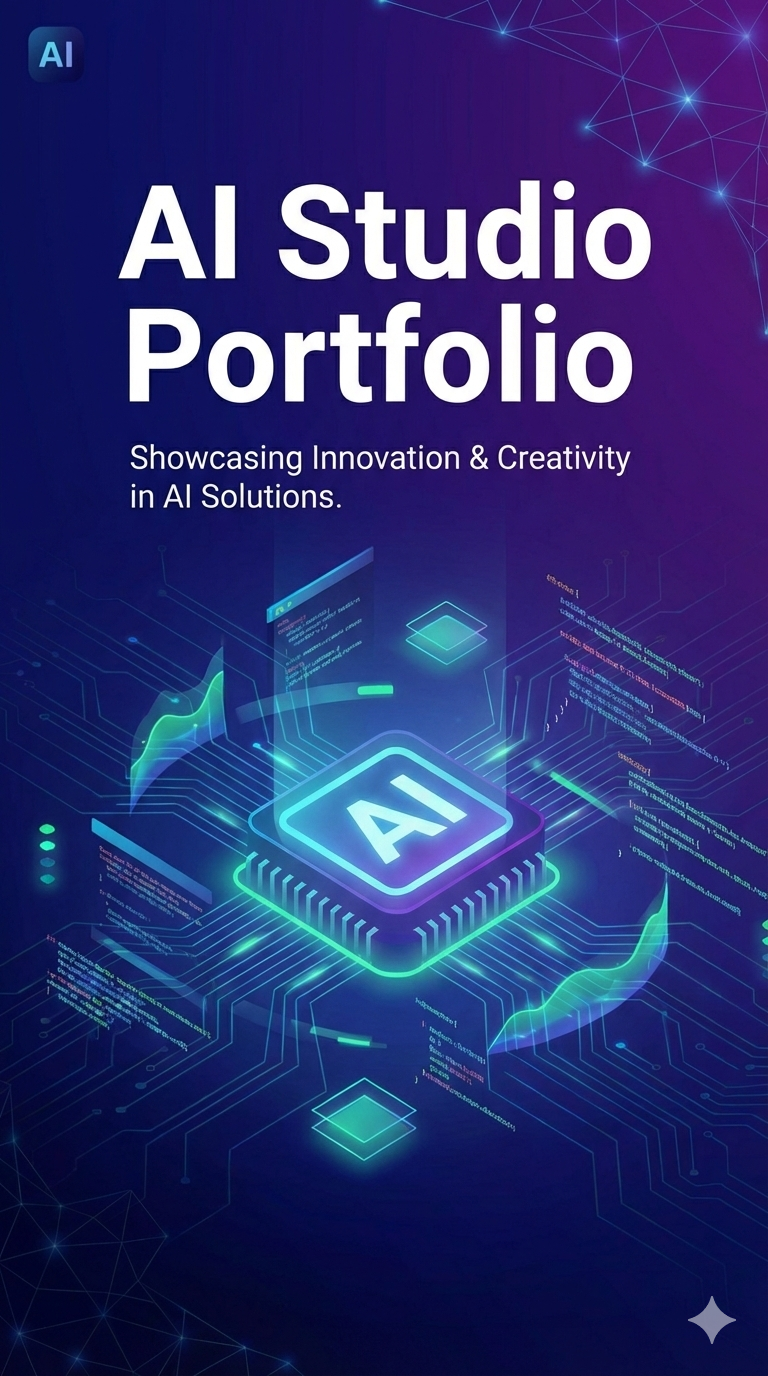
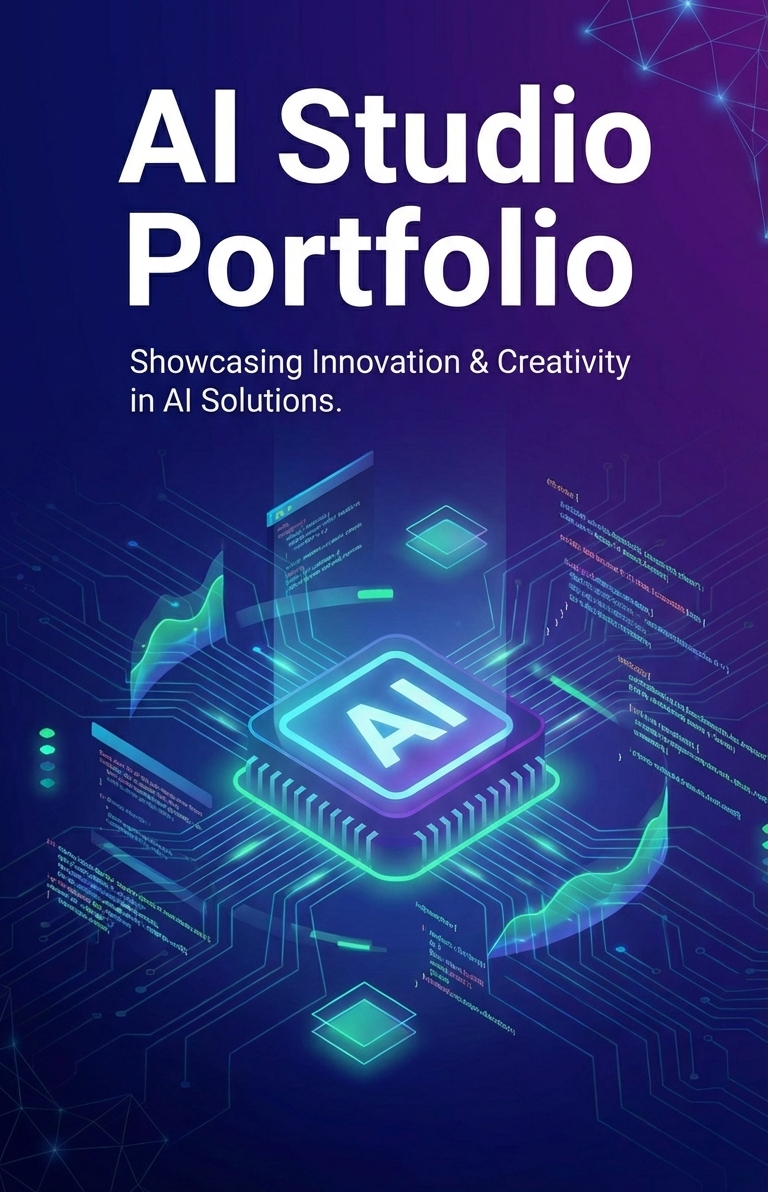
圖片改為webp

diff --git a/components/Works.tsx b/components/Works.tsx
@@ -2,7 +2,7 @@
 import React, { useEffect, useRef } from 'react';
 import { Link } from 'react-router-dom';
 // 使用剛設定好的 @ 別名
-import workImg1 from '../assets/images/work-01.png';
+import workImg1 from '../assets/images/work-01.webp';
 import workImg2 from '../assets/images/work-02.png';
 
 declare const window: any;
@@ -40,10 +40,11 @@ export const Works: React.FC = () => {
         <Link to="/work/personal-branding" className="work-card group cursor-pointer block">
           <div className="relative overflow-hidden aspect-[4/5] bg-neutral-900">
             <div className="absolute inset-0 bg-black/20 group-hover:bg-transparent transition-all z-10 duration-500"></div>
-            <img 
-              src={workImg1} // 這裡必須是大括號包住的變數名
-              alt="個人品牌形象官網" 
-              className="w-full h-full object-cover transition-transform duration-700 group-hover:scale-105 opacity-80 group-hover:opacity-100"
+            <img
+              src={workImg1}
+              alt="個人品牌形象官網"
+              // 將 object-cover 改為 object-contain，並確保 object-center
+              className="w-full h-full object-contain object-center transition-transform duration-700 group-hover:scale-105 opacity-80 group-hover:opacity-100"
             />
             <div className="absolute top-4 right-4 z-20 opacity-0 group-hover:opacity-100 transition-opacity duration-500">
                 <span className="w-8 h-8 rounded-full border border-white/30 flex items-center justify-center bg-black/30 backdrop-blur-sm">

diff --git a/vite.config.ts b/vite.config.ts
@@ -1,6 +1,7 @@
 import * as path from 'path';
 import { defineConfig, loadEnv } from 'vite';
 // 如果這行還是紅字，請確保你已經跑過上面的 npm install 指令
+// @ts-ignore
 import react from '@vitejs/plugin-react';
 
 export default defineConfig(({ mode }) => {

diff --git a/vite-env.d.ts b/vite-env.d.ts
@@ -1,2 +1,3 @@
-///<reference types="vite/client" />
+/// <reference types="vite/client" />
+
 declare const gsap: any;
